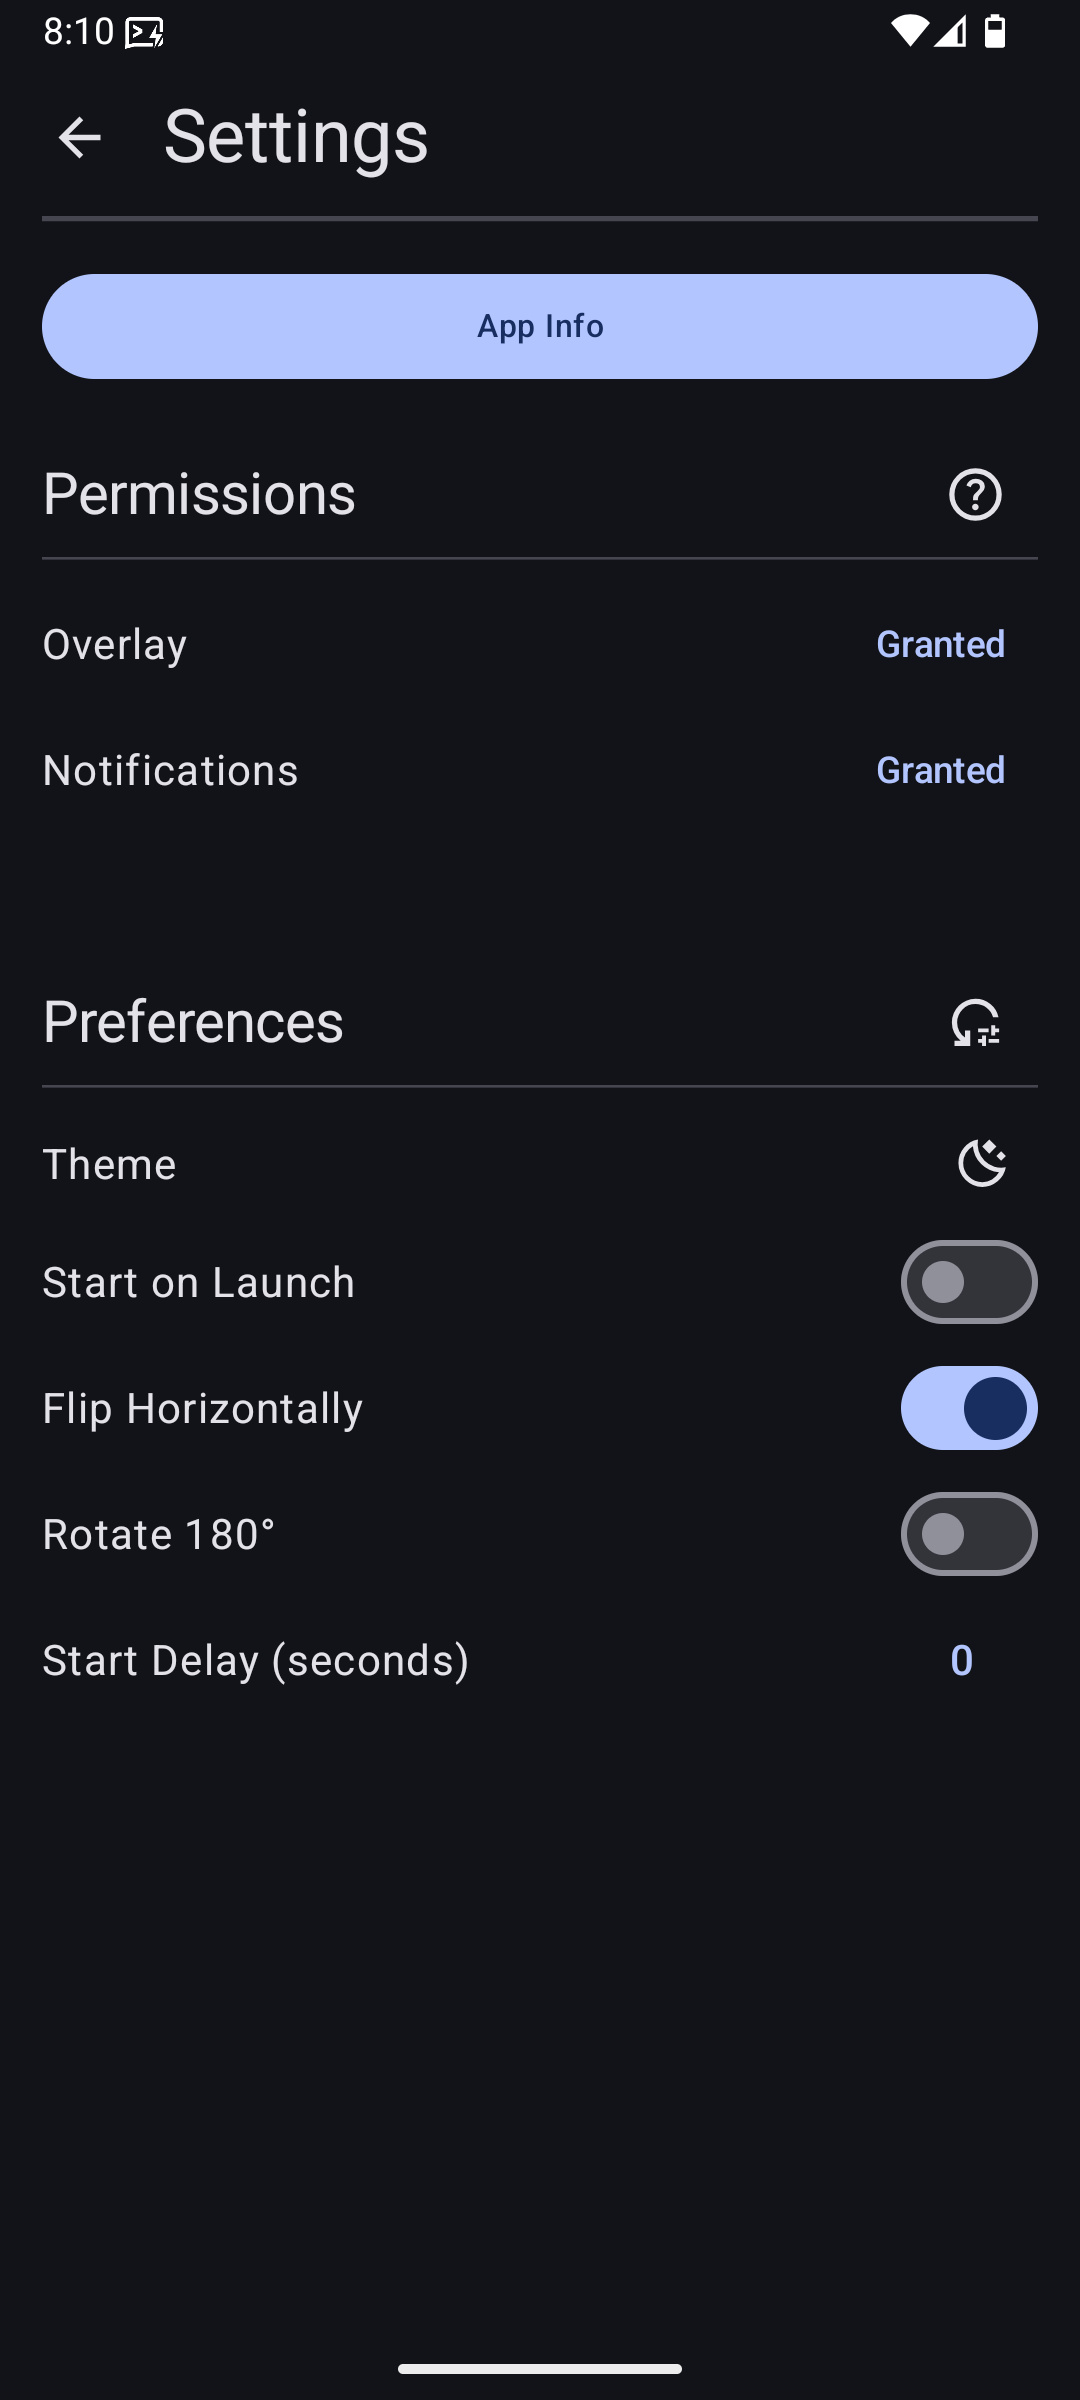
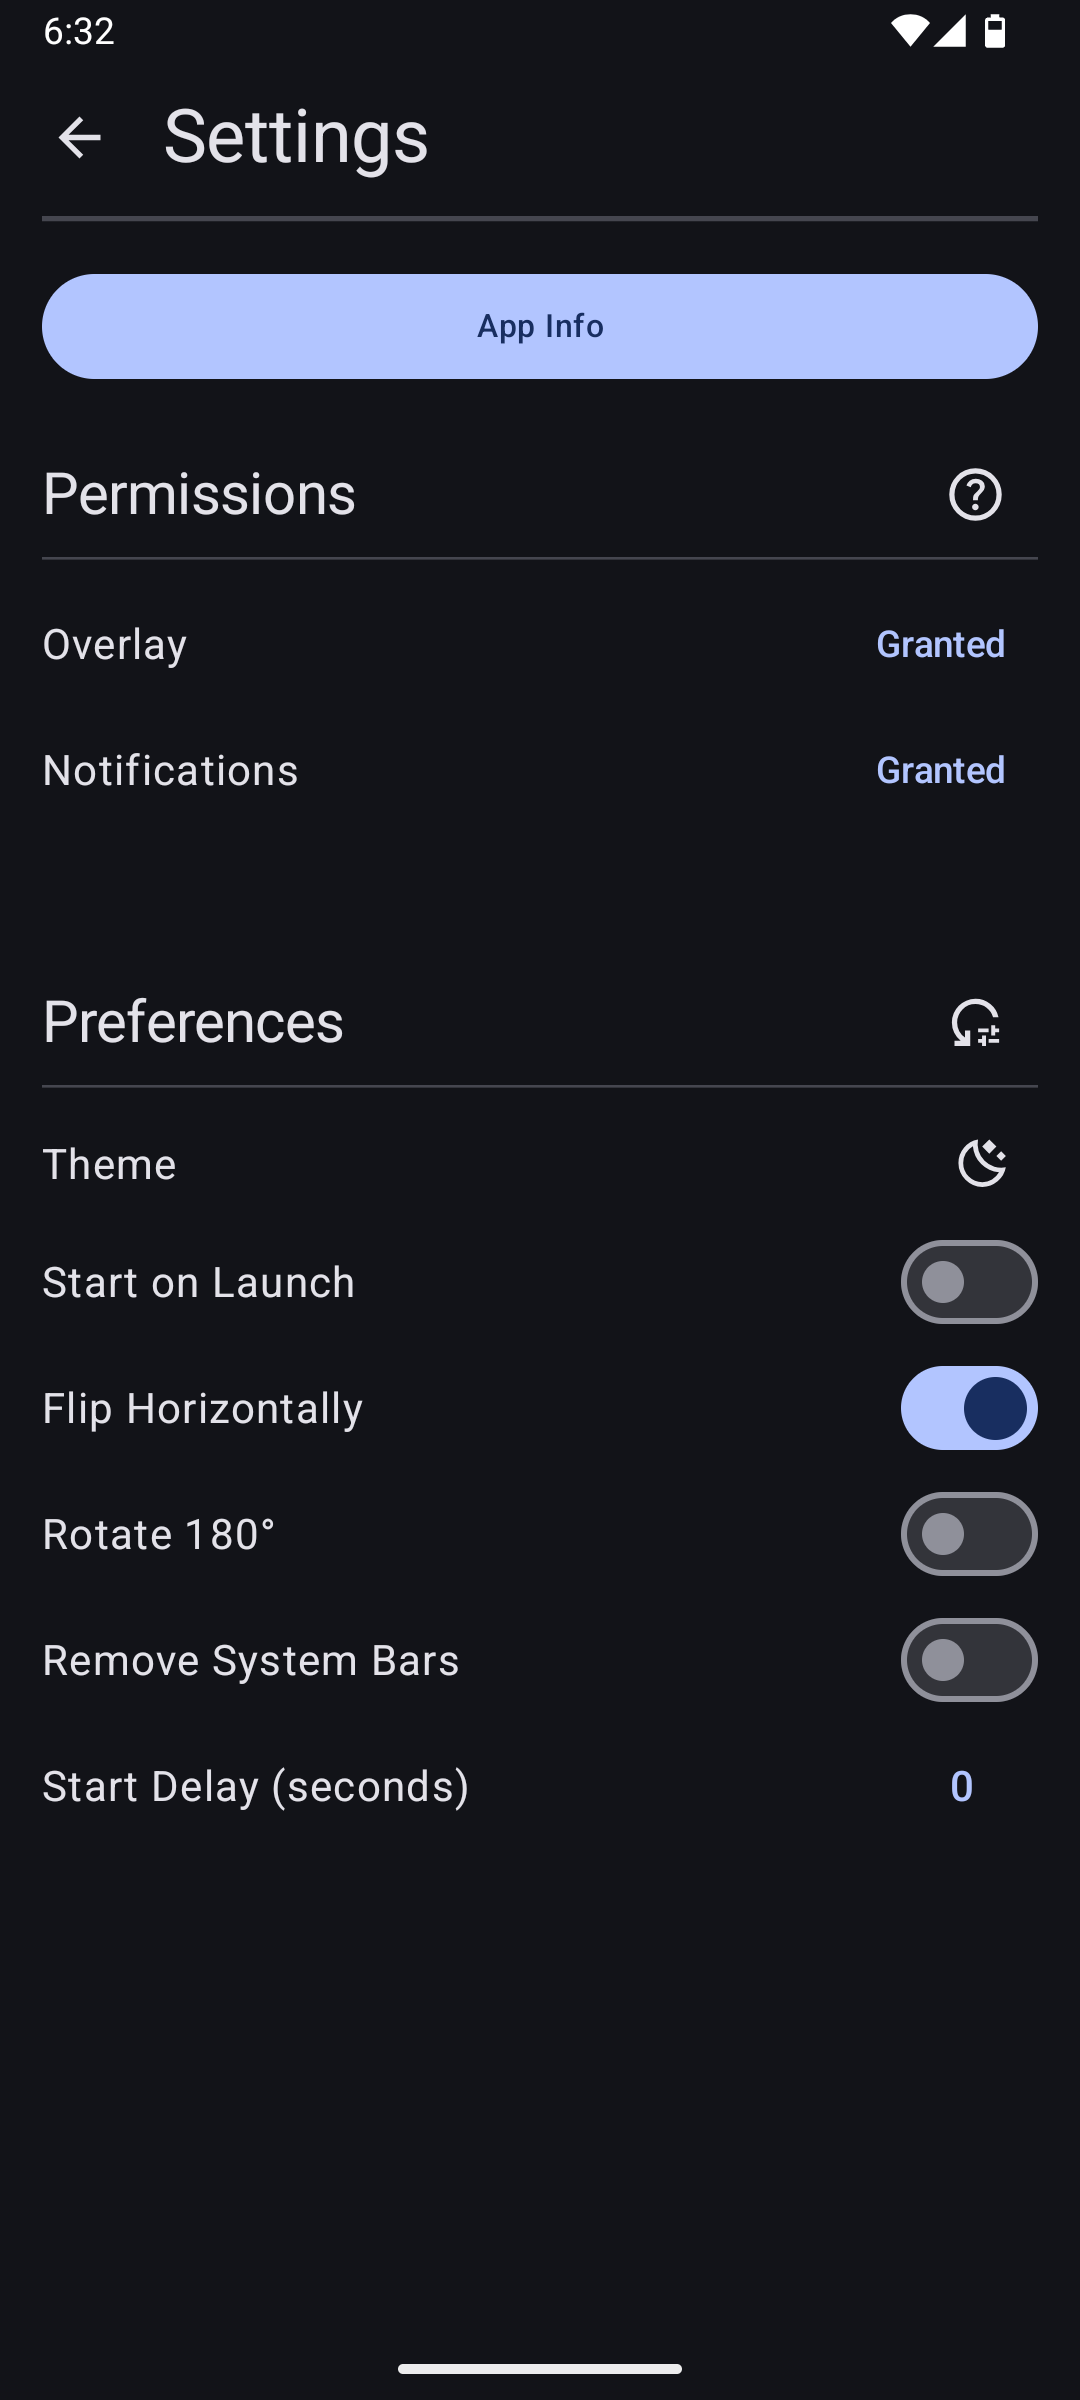
feat: setting to remove system bars (#9)
When using the "Remove System Bars" setting, the height of the status and navigation bar is recorded before creating the overlay for cropping. If the device orientation changes afterward (e.g. from portrait to landscape), the cropping dimensions will not update.

---

* feat: initial attempt at removing cropping

* fix: correct scaling

* fix: add left/right crop

* fix: cutout and horizontal

* fix: listen to changes in insets

* fix: help screens

* metadata: update settings and help pages

* chore: update gradle version

* chore: fix spacing

* refactor: simplify virtual display creation

* style: remove space

Changed region(s): [[0.0306, 0.6875, 0.4278, 0.75], [0.825, 0.6562, 0.9778, 0.75], [0.0611, 0.0, 0.1528, 0.0312]]

diff --git a/app/src/main/java/org/nktnet/middor/services/MirrorService.kt b/app/src/main/java/org/nktnet/middor/services/MirrorService.kt
@@ -17,6 +17,7 @@ import android.widget.FrameLayout
 import android.widget.ImageButton
 import androidx.core.graphics.toColorInt
 import org.nktnet.middor.R
+import org.nktnet.middor.config.UserSettings
 import org.nktnet.middor.managers.CustomNotificationManager
 import org.nktnet.middor.utils.MirrorUtils
 
@@ -26,6 +27,11 @@ class MirrorService : Service() {
     private var overlayView: FrameLayout? = null
     private var virtualDisplay: VirtualDisplay? = null
 
+    private var cropTop = 0
+    private var cropBottom = 0
+    private var cropLeft = 0
+    private var cropRight = 0
+
     companion object {
         val CLOSE_BUTTON_COLOUR = "#80FF0000".toColorInt()
         const val ACTION_STOP_SERVICE = "org.nktnet.middor.action.STOP_SERVICE"
@@ -34,6 +40,10 @@ class MirrorService : Service() {
 
         const val EXTRA_RESULT_CODE = "extra_result_code"
         const val EXTRA_RESULT_INTENT = "extra_result_intent"
+        const val EXTRA_CROP_TOP = "extra_crop_top"
+        const val EXTRA_CROP_BOTTOM = "extra_crop_bottom"
+        const val EXTRA_CROP_LEFT = "extra_crop_left"
+        const val EXTRA_CROP_RIGHT = "extra_crop_right"
     }
 
     override fun onCreate() {
@@ -62,6 +72,13 @@ class MirrorService : Service() {
                     EXTRA_RESULT_INTENT, Intent::class.java
                 ) ?: return START_NOT_STICKY
 
+                if (UserSettings.removeSystemBars.value) {
+                    cropTop = intent.getIntExtra(EXTRA_CROP_TOP, 0)
+                    cropBottom = intent.getIntExtra(EXTRA_CROP_BOTTOM, 0)
+                    cropLeft = intent.getIntExtra(EXTRA_CROP_LEFT, 0)
+                    cropRight = intent.getIntExtra(EXTRA_CROP_RIGHT, 0)
+                }
+
                 startFullScreenOverlay(resultCode, data)
                 return START_STICKY
             }
@@ -71,13 +88,23 @@ class MirrorService : Service() {
     }
 
     private fun startFullScreenOverlay(resultCode: Int, data: Intent) {
-        val textureView = MirrorUtils.setupTextureView(context = this) { tv ->
+        val textureView = MirrorUtils.setupTextureView(
+            context = this,
+            cropTop = cropTop,
+            cropBottom = cropBottom,
+            cropLeft = cropLeft,
+            cropRight = cropRight
+        ) { tv ->
             virtualDisplay = projection?.let {
                 MirrorUtils.createVirtualDisplay(
                     it,
                     tv,
                     VIRTUAL_DISPLAY_NAME,
                     resources.displayMetrics.densityDpi,
+                    cropTop,
+                    cropBottom,
+                    cropLeft,
+                    cropRight
                 )
             }
         }
@@ -87,6 +114,10 @@ class MirrorService : Service() {
             context = this,
             resultCode = resultCode,
             data = data,
+            cropTop = cropTop,
+            cropBottom = cropBottom,
+            cropLeft = cropLeft,
+            cropRight = cropRight,
             onStop = { stopSelf() },
             onResize = { w, h ->
                 virtualDisplay?.resize(w, h, densityDpi)
@@ -120,7 +151,8 @@ class MirrorService : Service() {
             closeButton,
             FrameLayout.LayoutParams(120, 120).apply {
                 gravity = Gravity.END or Gravity.TOP
-                topMargin = 90
+                // To keep old behaviour for v0.1.4 and below
+                topMargin = if (UserSettings.removeSystemBars.value) 40 else 90
                 rightMargin = 40
             }
         )
@@ -132,13 +164,20 @@ class MirrorService : Service() {
                 WindowManager.LayoutParams.MATCH_PARENT,
                 WindowManager.LayoutParams.MATCH_PARENT,
                 WindowManager.LayoutParams.TYPE_APPLICATION_OVERLAY,
-                WindowManager.LayoutParams.FLAG_NOT_FOCUSABLE
-                    or WindowManager.LayoutParams.FLAG_LAYOUT_IN_SCREEN
-                    or WindowManager.LayoutParams.FLAG_LAYOUT_NO_LIMITS,
+                WindowManager.LayoutParams.FLAG_NOT_FOCUSABLE,
                 PixelFormat.TRANSLUCENT
             ).apply {
                 layoutInDisplayCutoutMode =
-                    WindowManager.LayoutParams.LAYOUT_IN_DISPLAY_CUTOUT_MODE_ALWAYS
+                    WindowManager.LayoutParams.LAYOUT_IN_DISPLAY_CUTOUT_MODE_SHORT_EDGES
+
+                if (!UserSettings.removeSystemBars.value) {
+                    // To keep old behaviour for v0.1.4 and below
+                    flags = (
+                        flags
+                            or WindowManager.LayoutParams.FLAG_LAYOUT_IN_SCREEN
+                            or WindowManager.LayoutParams.FLAG_LAYOUT_NO_LIMITS
+                    )
+                }
             }
         )
     }

diff --git a/app/src/main/java/org/nktnet/middor/utils/MirrorUtils.kt b/app/src/main/java/org/nktnet/middor/utils/MirrorUtils.kt
@@ -2,6 +2,7 @@ package org.nktnet.middor.utils
 
 import android.content.Context
 import android.content.Intent
+import android.graphics.Matrix
 import android.hardware.display.DisplayManager
 import android.hardware.display.VirtualDisplay
 import android.media.projection.MediaProjection
@@ -15,6 +16,10 @@ object MirrorUtils {
         context: Context,
         resultCode: Int,
         data: Intent,
+        cropTop: Int,
+        cropBottom: Int,
+        cropLeft: Int,
+        cropRight: Int,
         onStop: () -> Unit,
         onResize: (width: Int, height: Int) -> Unit
     ): MediaProjection? {
@@ -29,7 +34,10 @@ object MirrorUtils {
                 }
 
                 override fun onCapturedContentResize(width: Int, height: Int) {
-                    onResize(width, height)
+                    onResize(
+                        width - cropLeft - cropRight,
+                        height - cropTop - cropBottom
+                    )
                 }
             }, null)
         }
@@ -39,12 +47,16 @@ object MirrorUtils {
         projection: MediaProjection,
         textureView: TextureView,
         displayName: String,
-        densityDpi: Int
+        densityDpi: Int,
+        cropTop: Int,
+        cropBottom: Int,
+        cropLeft: Int,
+        cropRight: Int
     ): VirtualDisplay? {
         return projection.createVirtualDisplay(
             displayName,
-            textureView.width,
-            textureView.height,
+            textureView.width - cropLeft - cropRight,
+            textureView.height - cropTop - cropBottom,
             densityDpi,
             DisplayManager.VIRTUAL_DISPLAY_FLAG_AUTO_MIRROR,
             Surface(textureView.surfaceTexture),
@@ -55,6 +67,10 @@ object MirrorUtils {
 
     fun setupTextureView(
         context: Context,
+        cropTop: Int,
+        cropBottom: Int,
+        cropLeft: Int,
+        cropRight: Int,
         onAvailable: (TextureView) -> Unit
     ): TextureView {
         return TextureView(context).apply {
@@ -65,6 +81,24 @@ object MirrorUtils {
                     st: android.graphics.SurfaceTexture, w: Int, h: Int
                 ) {
                     onAvailable(this@apply)
+
+                    val cropW = w - cropLeft - cropRight
+                    val cropH = h - cropTop - cropBottom
+
+                    val scale = maxOf(
+                        w.toFloat() / cropW.toFloat(),
+                        h.toFloat() / cropH.toFloat()
+                    )
+
+                    val matrix = Matrix()
+                    matrix.setScale(scale, scale)
+
+                    matrix.postTranslate(
+                        -cropLeft.toFloat() * scale + (w - cropW * scale) / 2f,
+                        -cropTop.toFloat() * scale + (h - cropH * scale) / 2f
+                    )
+
+                    setTransform(matrix)
                 }
                 override fun onSurfaceTextureSizeChanged(
                     st: android.graphics.SurfaceTexture, w: Int, h: Int

diff --git a/app/src/main/java/org/nktnet/middor/config/UserSettings.kt b/app/src/main/java/org/nktnet/middor/config/UserSettings.kt
@@ -22,6 +22,7 @@ object UserSettings {
         val START_ON_LAUNCH_KEY = booleanPreferencesKey("user_settings.start_on_launch")
         val FLIP_DISPLAY_KEY = booleanPreferencesKey("user_settings.flip_horizontally")
         val UPSIDE_DOWN_KEY = booleanPreferencesKey("user_settings.upside_down")
+        val REMOVE_SYSTEM_BARS_KEY = booleanPreferencesKey("user_settings.remove_system_bars")
         val START_DELAY_SECONDS_KEY = intPreferencesKey("user_settings.start_delay_seconds")
     }
 
@@ -30,6 +31,7 @@ object UserSettings {
         const val START_ON_LAUNCH = false
         const val FLIP_HORIZONTALLY = true
         const val ROTATE_180 = false
+        const val REMOVE_SYSTEM_BARS = false
         const val START_DELAY_SECONDS = 0
     }
 
@@ -37,6 +39,7 @@ object UserSettings {
     val startOnLaunch: MutableState<Boolean> = mutableStateOf(Defaults.START_ON_LAUNCH)
     val flipHorizontally: MutableState<Boolean> = mutableStateOf(Defaults.FLIP_HORIZONTALLY)
     val rotate180: MutableState<Boolean> = mutableStateOf(Defaults.ROTATE_180)
+    val removeSystemBars: MutableState<Boolean> = mutableStateOf(Defaults.REMOVE_SYSTEM_BARS)
     val startDelaySeconds: MutableState<Int> = mutableIntStateOf(Defaults.START_DELAY_SECONDS)
 
     fun setTheme(context: Context, theme: ThemeOption) {
@@ -71,6 +74,9 @@ object UserSettings {
     fun setRotate180(context: Context, value: Boolean) =
         setPreference(context, Keys.UPSIDE_DOWN_KEY, rotate180, value)
 
+    fun setRemoveSystemBars(context: Context, value: Boolean) =
+        setPreference(context, Keys.REMOVE_SYSTEM_BARS_KEY, removeSystemBars, value)
+
     fun setStartDelay(context: Context, delayMs: Int) =
         setPreference(
             context,
@@ -84,6 +90,7 @@ object UserSettings {
         setStartOnLaunch(context, Defaults.START_ON_LAUNCH)
         setFlipHorizontally(context, Defaults.FLIP_HORIZONTALLY)
         setRotate180(context, Defaults.ROTATE_180)
+        setRemoveSystemBars(context, Defaults.REMOVE_SYSTEM_BARS)
         setStartDelay(context, Defaults.START_DELAY_SECONDS)
     }
 
@@ -97,6 +104,8 @@ object UserSettings {
                 startOnLaunch.value = prefs[Keys.START_ON_LAUNCH_KEY] ?: Defaults.START_ON_LAUNCH
                 flipHorizontally.value = prefs[Keys.FLIP_DISPLAY_KEY] ?: Defaults.FLIP_HORIZONTALLY
                 rotate180.value = prefs[Keys.UPSIDE_DOWN_KEY] ?: Defaults.ROTATE_180
+                removeSystemBars.value = prefs[Keys.REMOVE_SYSTEM_BARS_KEY]
+                    ?: Defaults.REMOVE_SYSTEM_BARS
                 startDelaySeconds.value = prefs[Keys.START_DELAY_SECONDS_KEY]
                     ?: Defaults.START_DELAY_SECONDS
             }

diff --git a/app/src/main/java/org/nktnet/middor/MainActivity.kt b/app/src/main/java/org/nktnet/middor/MainActivity.kt
@@ -2,6 +2,7 @@ package org.nktnet.middor
 
 import android.content.Intent
 import android.os.Bundle
+import android.view.WindowInsets
 import androidx.activity.ComponentActivity
 import androidx.activity.compose.setContent
 import androidx.activity.enableEdgeToEdge
@@ -31,19 +32,41 @@ import org.nktnet.middor.ui.theme.MiddorTheme
 
 class MainActivity : ComponentActivity() {
     private lateinit var screenCaptureManager: ScreenCaptureManager
+    private var sysBarTop = 0
+    private var sysBarBottom = 0
+    private var sysBarLeft = 0
+    private var sysBarRight = 0
+    private var isRequestingCapture = false
 
     override fun onCreate(savedInstanceState: Bundle?) {
         super.onCreate(savedInstanceState)
         enableEdgeToEdge()
-
         UserSettings.init(this)
 
-        screenCaptureManager = ScreenCaptureManager(this) { resultCode, data ->
+        window.decorView.setOnApplyWindowInsetsListener { _, insets ->
+            if (!isRequestingCapture) {
+                val sysBars = insets.getInsets(WindowInsets.Type.systemBars())
+                sysBarTop = sysBars.top
+                sysBarBottom = sysBars.bottom
+                sysBarLeft = sysBars.left
+                sysBarRight = sysBars.right
+            }
+            insets
+        }
+
+        screenCaptureManager = ScreenCaptureManager(
+            this,
+            updateIsRequesting = { isRequestingCapture = it }
+        ) { resultCode, data ->
             val serviceIntent = Intent(this, MirrorService::class.java)
                 .apply {
                     action = MirrorService.ACTION_START_OVERLAY
                     putExtra(MirrorService.EXTRA_RESULT_CODE, resultCode)
                     putExtra(MirrorService.EXTRA_RESULT_INTENT, data)
+                    putExtra(MirrorService.EXTRA_CROP_TOP, sysBarTop)
+                    putExtra(MirrorService.EXTRA_CROP_BOTTOM, sysBarBottom)
+                    putExtra(MirrorService.EXTRA_CROP_LEFT, sysBarLeft)
+                    putExtra(MirrorService.EXTRA_CROP_RIGHT, sysBarRight)
                 }
             startForegroundService(serviceIntent)
         }
@@ -76,7 +99,6 @@ class MainActivity : ComponentActivity() {
                                 navController = navController,
                                 screenCaptureManager = screenCaptureManager,
                             )
-
                         }
                         composable(Screen.Settings.route) {
                             SettingsScreen(navController)

diff --git a/app/src/main/java/org/nktnet/middor/managers/ScreenCaptureManager.kt b/app/src/main/java/org/nktnet/middor/managers/ScreenCaptureManager.kt
@@ -11,6 +11,7 @@ import org.nktnet.middor.R
 
 class ScreenCaptureManager(
     private val activity: ComponentActivity,
+    private val updateIsRequesting: (isRequesting: Boolean) -> Unit,
     private val onCaptureResult: (resultCode: Int, data: Intent) -> Unit
 ) {
     private val launcher: ActivityResultLauncher<Intent> =
@@ -21,15 +22,18 @@ class ScreenCaptureManager(
             if (result.resultCode == Activity.RESULT_OK && data != null) {
                 onCaptureResult(result.resultCode, data)
             }
+            updateIsRequesting(false)
         }
 
     fun requestCapture() {
+        updateIsRequesting(true)
         try {
             val mpm = activity.getSystemService(
                 Context.MEDIA_PROJECTION_SERVICE
             ) as MediaProjectionManager
             launcher.launch(mpm.createScreenCaptureIntent())
         } catch (e: Exception) {
+            updateIsRequesting(false)
             ToastManager.show(
                 activity,
                 activity.getString(
@@ -37,7 +41,6 @@ class ScreenCaptureManager(
                     e.message
                 )
             )
-
         }
     }
 }

diff --git a/app/src/main/java/org/nktnet/middor/ui/screens/SettingsScreen.kt b/app/src/main/java/org/nktnet/middor/ui/screens/SettingsScreen.kt
@@ -290,6 +290,12 @@ fun SettingsScreen(navController: NavController) {
             ) { newValue ->
                 UserSettings.setRotate180(context, newValue)
             }
+            BooleanSetting(
+                stringResource(R.string.settings_remove_system_bars),
+                UserSettings.removeSystemBars.value
+            ) { newValue ->
+                UserSettings.setRemoveSystemBars(context, newValue)
+            }
             IntSetting(
                 label = stringResource(R.string.settings_start_delay_seconds_label),
                 value = UserSettings.startDelaySeconds.value,

diff --git a/app/src/main/java/org/nktnet/middor/ui/screens/HelpScreen.kt b/app/src/main/java/org/nktnet/middor/ui/screens/HelpScreen.kt
@@ -119,10 +119,7 @@ fun HelpScreen(navController: NavController) {
                 Text(
                     text = listOf(
                         stringResource(R.string.help_overlay_note),
-                        stringResource(
-                            R.string.help_padding_note,
-                            stringResource(R.string.app_name)
-                        )
+                        stringResource(R.string.help_remove_system_bars)
                     ).joinToString("\n\n"),
                     style = MaterialTheme.typography.bodyMedium
                 )
